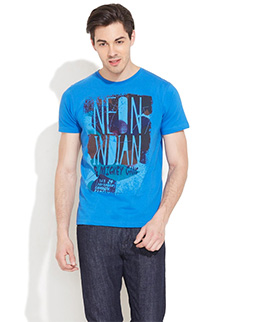
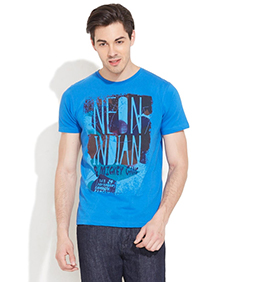
add edits

diff --git a/html-css/module-05/index.html b/html-css/module-05/index.html
@@ -2,12 +2,12 @@
 <html lang="en">
 
 <head>
+    <title>Homework-05</title>
     <meta charset="UTF-8">
-    <link rel="stylesheet" href="css/styles.css">
-    <link rel="stylesheet" href="css/normalize.css">
     <link href="https://fonts.googleapis.com/css?family=Open+Sans:400,700|Roboto:300,400,900&display=swap"
         rel="stylesheet">
-    <title>Homework-05</title>
+    <link rel="stylesheet" href="css/styles.css">
+    <link rel="stylesheet" href="css/normalize.css">
 </head>
 
 <body>
@@ -63,127 +63,135 @@
 
         <section class="shop">
             <div class="container">
-                <h3 class="section-title">
+                <h2 class="section-title">
                     New collection
-                </h3>
+                </h2>
                 <ul class="shop-list clearfix">
                     <li class="shop-item">
-                        <a href="#">
-                            <img class="section-image" src="./img/1.jpg" alt="some photo" width="255" height="322">
-                            <div class="wrapper clearfix">
+                        <div class="over-img">
+                            <img class="section-image" src="./img/1.jpg" alt="some photo" width="255" height="282">
+                            <div class="overlay">
+                                <ul class="icon-list clearfix">
+                                    <li class="icon-item">
+                                        <button class="icon-button like"></button>
+                                    </li>
+                                    <li class="icon-item">
+                                        <button class="icon-button arrows"></button>
+                                    </li>
+                                    <li class="icon-item">
+                                        <button class="icon-button clock"></button>
+                                    </li>
+                                    <li class="icon-item">
+                                        <button class="icon-button trolley">Add to card</button>
+                                    </li>
+                                </ul>
+                            </div>
+                        </div>
+                        <div class="name-price clearfix">
+                            <a href="#">
                                 <p class="item-name">
                                     Blue Tshirt
                                 </p>
-                                <p class="item-price">$26</p>
-                            </div>
-                        </a>
-                        <div class="overlay">
-                            <ul class="icon-list clearfix">
-                                <li class="icon-item">
-                                    <button class="icon-button like"></button>
-                                </li>
-                                <li class="icon-item">
-                                    <button class="icon-button arrows"></button>
-                                </li>
-                                <li class="icon-item">
-                                    <button class="icon-button clock"></button>
-                                </li>
-                                <li class="icon-item">
-                                    <button class="icon-button trolley">Add to card</button>
-                                </li>
-                            </ul>
+                            </a>
+                            <p class="item-price">$26</p>
                         </div>
                     </li>
                     <li class="shop-item">
-                        <a href="#">
-                            <img class="section-image" src="./img/2.jpg" alt="some photo" width="255" height="322">
-                            <div class="wrapper clearfix">
+                        <div class="over-img">
+                            <img class="section-image" src="./img/2.jpg" alt="some photo" width="255" height="282">
+                            <div class="overlay">
+                                <ul class="icon-list clearfix">
+                                    <li class="icon-item">
+                                        <button class="icon-button like"></button>
+                                    </li>
+                                    <li class="icon-item">
+                                        <button class="icon-button arrows"></button>
+                                    </li>
+                                    <li class="icon-item">
+                                        <button class="icon-button clock"></button>
+                                    </li>
+                                    <li class="icon-item">
+                                        <button class="icon-button trolley">Add to card</button>
+                                    </li>
+                                </ul>
+                            </div>
+                        </div>
+                        <div class="name-price clearfix">
+                            <a href="#">
                                 <p class="item-name">
-                                    Women shirt
+                                    Woman shirt
                                 </p>
-                                <p class="item-price">$31</p>
-                            </div>
-                        </a>
-                        <div class="overlay">
-                            <ul class="icon-list clearfix">
-                                <li class="icon-item">
-                                    <button class="icon-button like"></button>
-                                </li>
-                                <li class="icon-item">
-                                    <button class="icon-button arrows"></button>
-                                </li>
-                                <li class="icon-item">
-                                    <button class="icon-button clock"></button>
-                                </li>
-                                <li class="icon-item">
-                                    <button class="icon-button trolley">Add to card</button>
-                                </li>
-                            </ul>
+                            </a>
+                            <p class="item-price">$31</p>
                         </div>
                     </li>
                     <li class="shop-item">
-                        <a href="#">
-                            <img class="section-image" src="./img/3.jpg" alt="some photo" width="255" height="322">
-                            <div class="wrapper clearfix">
+                        <div class="over-img">
+                            <img class="section-image" src="./img/3.jpg" alt="some photo" width="255" height="282">
+                            <div class="overlay">
+                                <ul class="icon-list clearfix">
+                                    <li class="icon-item">
+                                        <button class="icon-button like"></button>
+                                    </li>
+                                    <li class="icon-item">
+                                        <button class="icon-button arrows"></button>
+                                    </li>
+                                    <li class="icon-item">
+                                        <button class="icon-button clock"></button>
+                                    </li>
+                                    <li class="icon-item">
+                                        <button class="icon-button trolley">Add to card</button>
+                                    </li>
+                                </ul>
+                            </div>
+                        </div>
+                        <div class="name-price clearfix">
+                            <a href="#">
                                 <p class="item-name">
-                                    Yellow Tshirt
+                                    Yellow Shirt
                                 </p>
-                                <p class="item-price">$21</p>
-                            </div>
-                        </a>
-                        <div class="overlay">
-                            <ul class="icon-list clearfix">
-                                <li class="icon-item">
-                                    <button class="icon-button like"></button>
-                                </li>
-                                <li class="icon-item">
-                                    <button class="icon-button arrows"></button>
-                                </li>
-                                <li class="icon-item">
-                                    <button class="icon-button clock"></button>
-                                </li>
-                                <li class="icon-item">
-                                    <button class="icon-button trolley">Add to card</button>
-                                </li>
-                            </ul>
+                            </a>
+                            <p class="item-price">$21</p>
                         </div>
                     </li>
                     <li class="shop-item">
-                        <a href="#">
-                            <img class="section-image" src="./img/4.jpg" alt="some photo" width="255" height="322">
-                            <div class="wrapper clearfix">
+                        <div class="over-img">
+                            <img class="section-image" src="./img/4.jpg" alt="some photo" width="255" height="282">
+                            <div class="overlay">
+                                <ul class="icon-list clearfix">
+                                    <li class="icon-item">
+                                        <button class="icon-button like"></button>
+                                    </li>
+                                    <li class="icon-item">
+                                        <button class="icon-button arrows"></button>
+                                    </li>
+                                    <li class="icon-item">
+                                        <button class="icon-button clock"></button>
+                                    </li>
+                                    <li class="icon-item">
+                                        <button class="icon-button trolley">Add to card</button>
+                                    </li>
+                                </ul>
+                            </div>
+                        </div>
+                        <div class="name-price clearfix">
+                            <a href="#">
                                 <p class="item-name">
                                     Cool Lingerie
                                 </p>
-                                <p class="item-price">$56</p>
-                            </div>
-                        </a>
-                        <div class="overlay">
-                            <ul class="icon-list clearfix">
-                                <li class="icon-item">
-                                    <button class="icon-button like"></button>
-                                </li>
-                                <li class="icon-item">
-                                    <button class="icon-button arrows"></button>
-                                </li>
-                                <li class="icon-item">
-                                    <button class="icon-button clock"></button>
-                                </li>
-                                <li class="icon-item">
-                                    <button class="icon-button trolley">Add to card</button>
-                                </li>
-                            </ul>
+                            </a>
+                            <p class="item-price">$56</p>
                         </div>
                     </li>
                 </ul>
             </div>
         </section>
     </main>
-
     <footer class="main-footer">
-        <div class="container">
+        <div class="footer-box  container">
             <p class="footer-content">
-                All Rights Reserved © Dokan | Designed <span class="company">ThemenGraph</span>
+                All Rights Reserved © Dokan | Designed
+                <a class="company" href="#">ThemenGraph</a>
             </p>
         </div>
     </footer>

diff --git a/html-css/module-05/css/styles.css b/html-css/module-05/css/styles.css
@@ -180,7 +180,7 @@ input[type="radio"].visually-hidden {
     margin-bottom: 78px;
 }
 
-h3::after {
+.section-title::after {
     content: "";
     display: block;
     background-color: rgb(26, 188, 156);
@@ -191,13 +191,13 @@ h3::after {
 }
 
 .shop-item {
+    width: 255px;
     font-size: 18px;
     font-family: "Roboto";
     text-transform: uppercase;
     line-height: 32px;
     font-weight: 900;
     float: left;
-    position: relative;
 }
 
 .shop-item a {
@@ -208,41 +208,15 @@ h3::after {
     margin-right: 30px;
 }
 
-.wrapper {
-    width: 255px;
-}
-
-.item-name {
-    width: 201px;
-    height: 40px;
-    float: left;
-    background-color: rgb(50, 50, 50);
-    padding-left: 10px;
-    padding-top: 5px;
-}
-
-.item-price {
-    width: 54px;
-    height: 40px;
-    background-color: rgb(140, 140, 140);
-    float: right;
-    text-align: center;
-    padding-top: 5px;
-}
-
-.shop-item:hover .item-name {
-    background-color: rgb(26, 188, 156);
-}
-
-.shop-item:hover .item-price {
-    background-color: rgb(127, 217, 199);
+.over-img {
+    position: relative;
 }
 
 .overlay {
     position: absolute;
     background-color: rgba(0, 0, 0, 0.5);
     width: 100%;
-    height: 282px;
+    height: 100%;
     top: 0px;
     left: 0px;
     border: 10px solid rgba(256, 256, 256, 0.8);
@@ -256,24 +230,48 @@ h3::after {
     visibility: visible;
 }
 
+.name-price {
+    background-color: rgb(50, 50, 50);
+}
+
+.item-name {
+    width: 201px;
+    height: 40px;
+    float: left;
+    padding-left: 10px;
+    padding-top: 5px;
+}
+
+.item-price {
+    color: rgb(255, 255, 255);
+    width: 54px;
+    height: 40px;
+    background-color: rgba(255, 255, 255, 0.44);
+    float: right;
+    text-align: center;
+    padding-top: 5px;
+}
+
+.shop-item:hover .name-price {
+    background-color: rgb(26, 188, 156);
+}
+
 .icon-button:hover {
     background-color: rgb(26, 188, 156);
     border: none;
 }
 
-.wrapper {
-    position: absolute;
-    bottom: 0px;
-}
-
 .icon-list {
+    width: 178px;
     position: absolute;
-    top: 80px;
-    left: 36px;
+    top: 50%;
+    left: 50%;
+    transform: translate(-50%, -50%);
 }
 
 .icon-item {
     float: left;
+
 }
 
 .icon-item:nth-of-type(-n+2) {
@@ -325,14 +323,18 @@ h3::after {
     padding: 36px 0;
 }
 
-.footer-content {
+.footer-box {
     text-align: center;
     font-family: "Open Sans";
-    color: rgb(254, 254, 254);
     font-size: 16px;
     line-height: 28px;
 }
 
+.footer-content {
+    color: rgb(254, 254, 254);
+}
+
 .company {
-    color: rgb(70, 191, 169)
+    display: inline-block;
+    color: rgb(70, 191, 169);
 }
